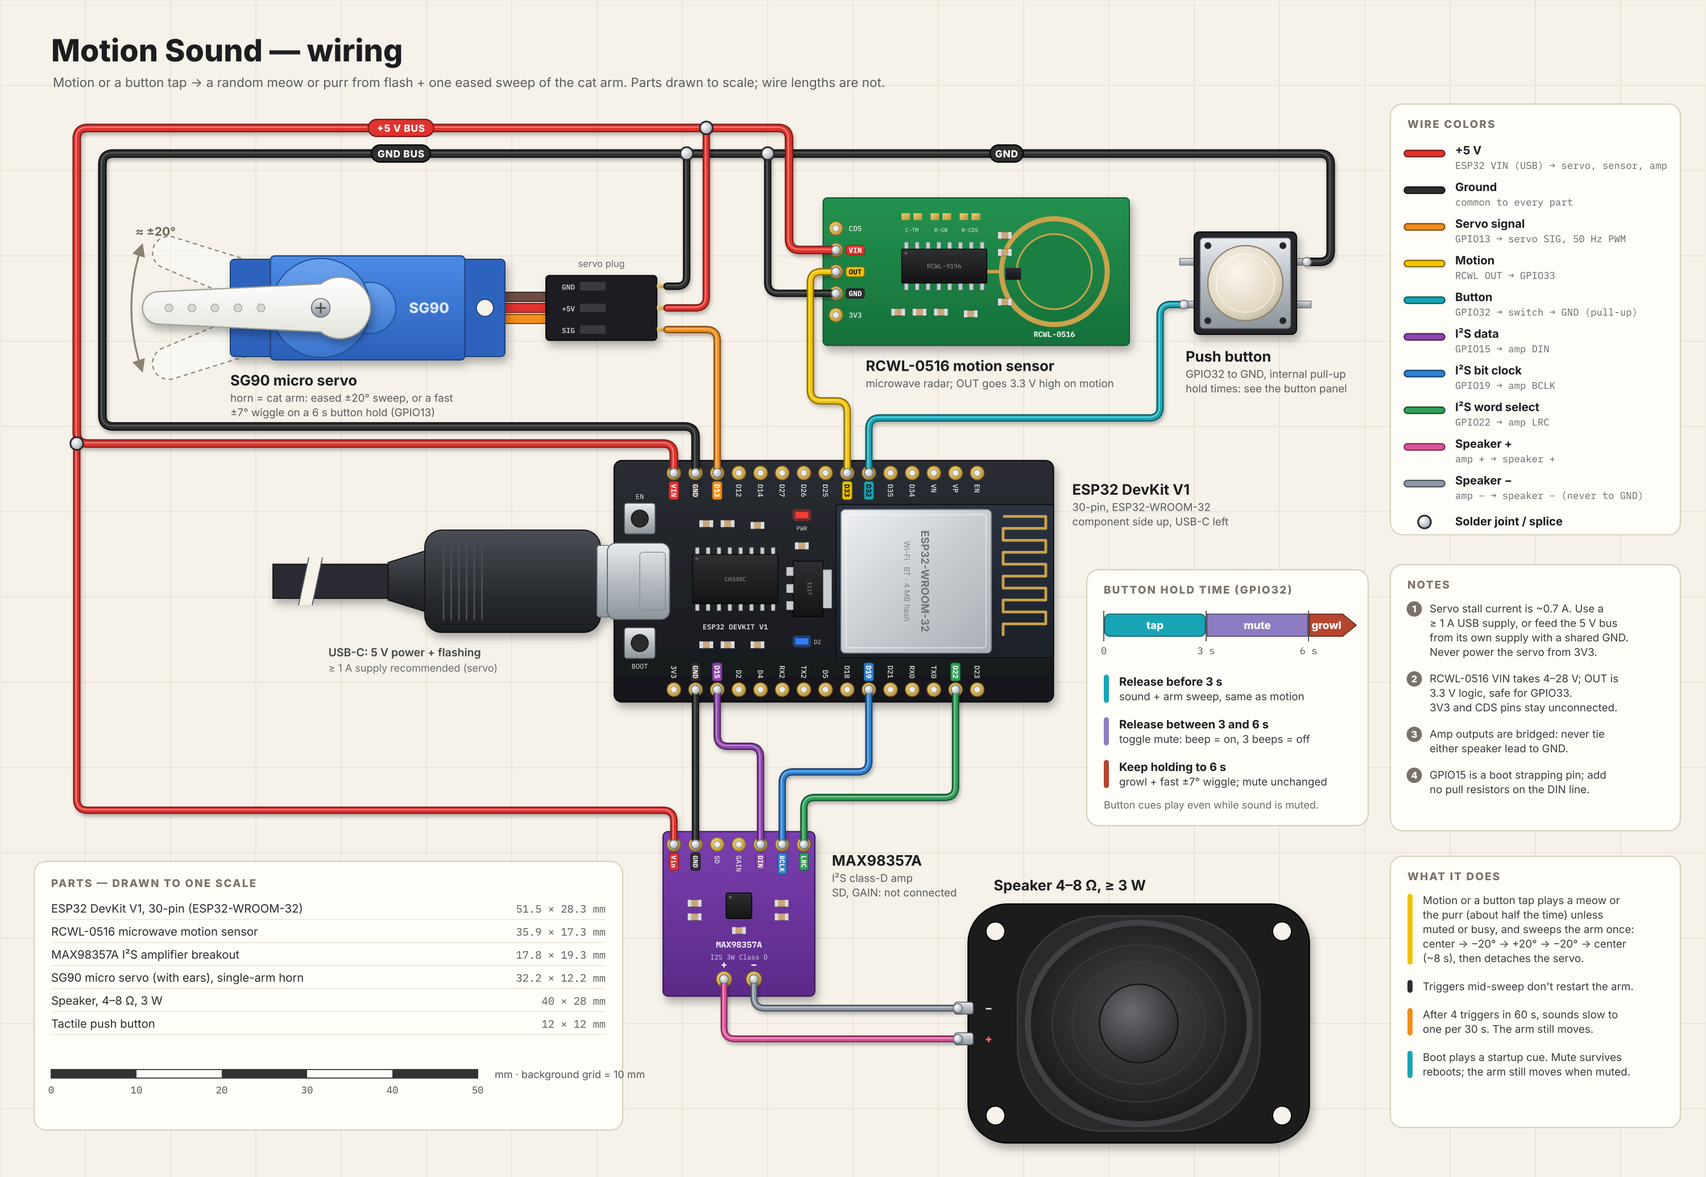
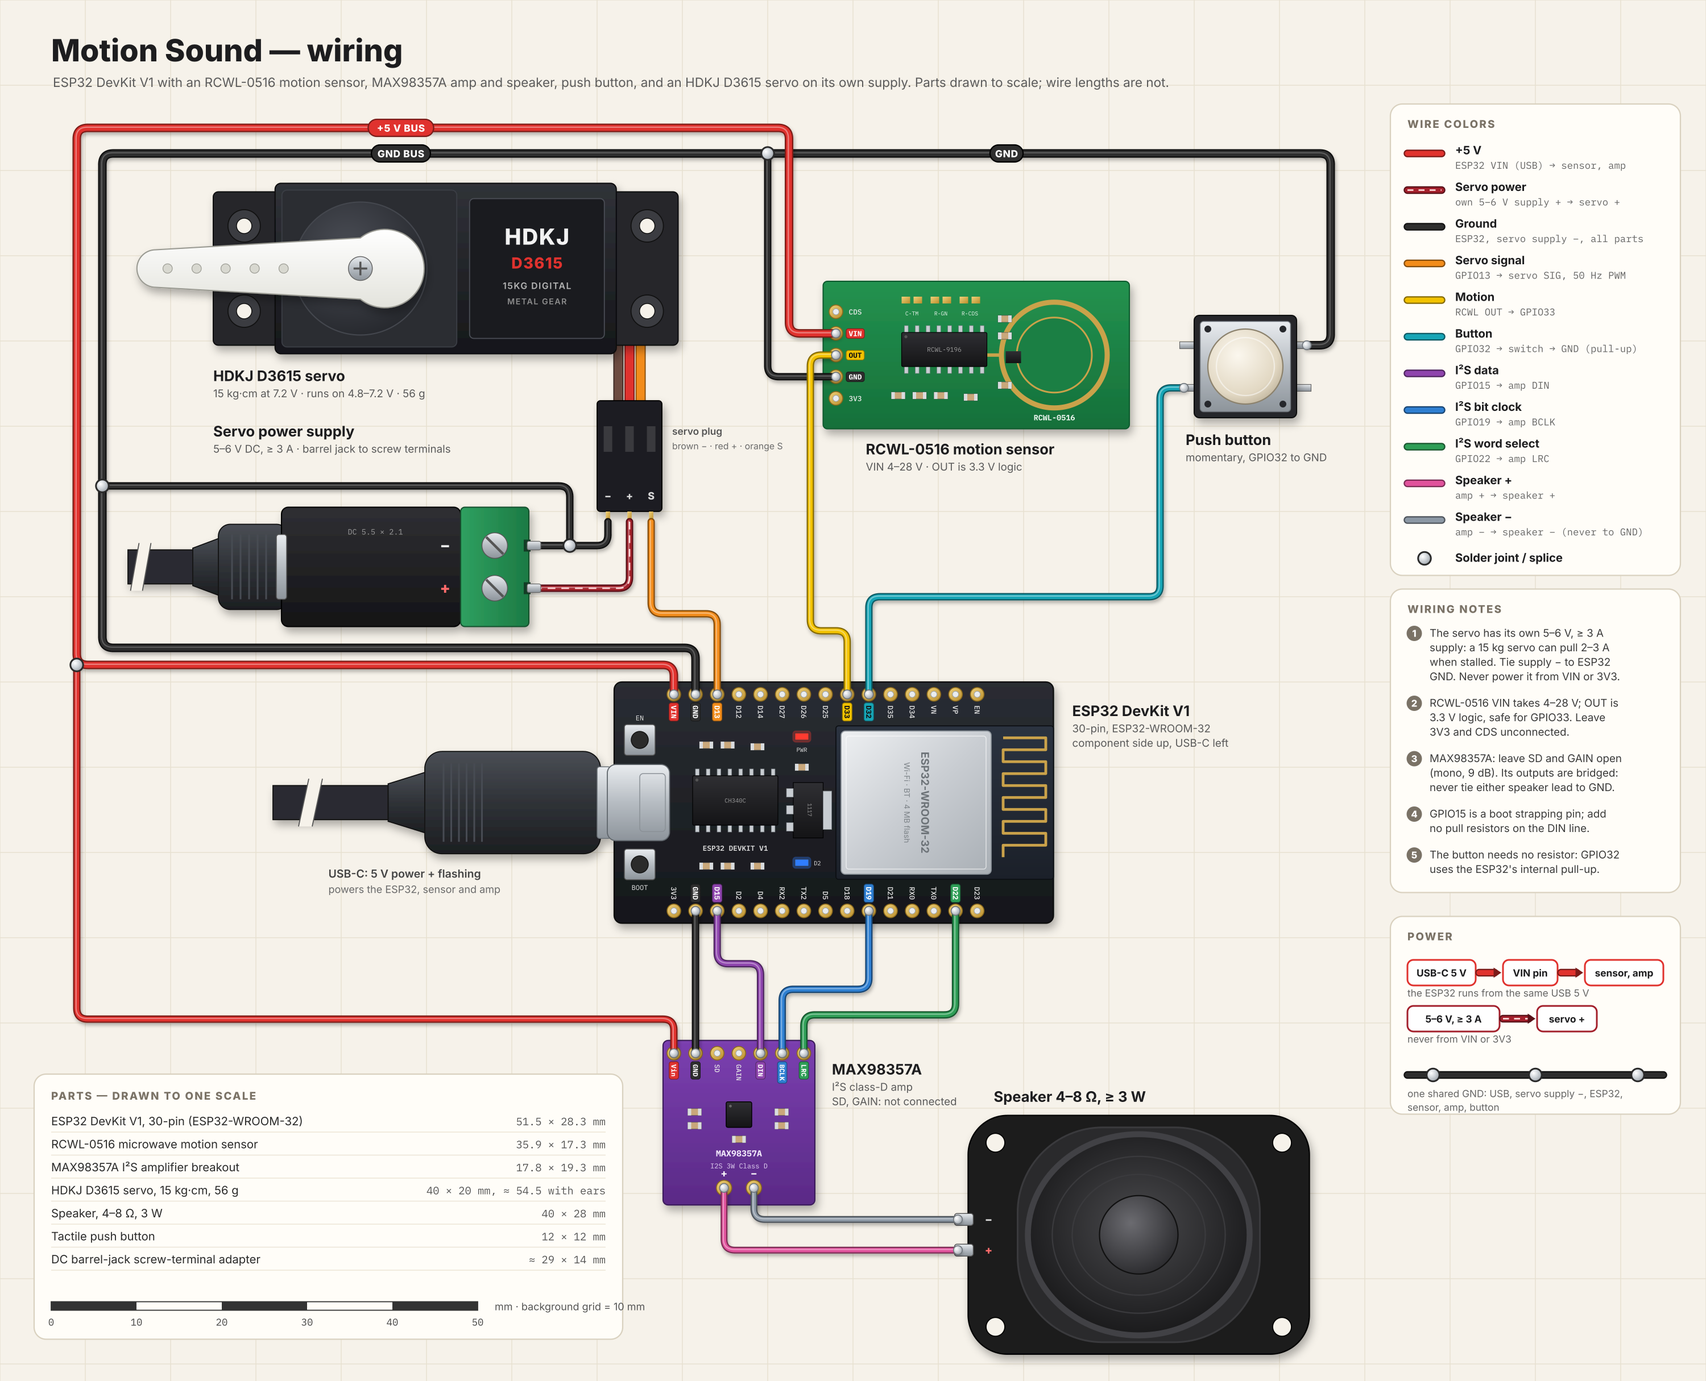
docs: redraw wiring for the HDKJ D3615 servo, refresh the README
- Diagram: draw the D3615 at true size on its own 5-6 V, >= 3 A supply
  with a shared ground; 5 V from VIN now feeds only the sensor and amp.
  Drop the behaviour panels in favour of wiring notes and a power summary.
- README: document the D3615 and its supply, move behaviour into its own
  section with corrected rate limit, clip interruption, and sweep/wiggle
  timings, add first-time Wi-Fi setup and a security note, and fix the
  sound-conversion and OTA tooling notes.

Changed region(s): [[0.031, 0.0309, 0.992, 0.9894], [0.217, 0.8966, 0.279, 0.9585]]

diff --git a/README.md b/README.md
@@ -1,43 +1,80 @@
 # Motion Sound
 
-An example project for building a standalone ESPHome sound-effects (SFX) device, used to make an interactive object that plays a sound and moves something when motion is detected. An ESP32-WROOM DevKit V1 reads a binary presence/motion sensor and randomly plays a short meow stored in firmware flash as MP3 through a MAX98357 I²S amplifier. A servo on the cat arm does one eased sweep and then holds center when motion is detected. Detection, random selection, and playback run locally on the device; Wi-Fi and Home Assistant are not required.
+An example project for building a standalone ESPHome sound-effects (SFX) device, used to make an interactive object that plays a sound and moves something when motion is detected. An ESP32-WROOM DevKit V1 reads a binary presence/motion sensor, plays a random short meow stored in firmware flash as MP3 through a MAX98357 I²S amplifier, and sweeps a servo-driven cat arm once before holding it at center. Detection, random selection, and playback run locally on the device. Wi-Fi and Home Assistant add remote controls and OTA updates, but are not required.
 
 ![Three prototype builds on perfboard: ESP32 DevKit V1 boards with MAX98357A amplifiers, an RCWL-0516 sensor, and a speaker](media/boards.jpg)
 
 ## Hardware and wiring
 
-![Wiring diagram: ESP32 DevKit V1 connected to an RCWL-0516 motion sensor, MAX98357A I²S amplifier and speaker, SG90 servo, and push button](media/wiring-diagram.png)
+![Wiring diagram: ESP32 DevKit V1 connected to an RCWL-0516 motion sensor, MAX98357A I²S amplifier and speaker, push button, and an HDKJ D3615 servo on its own 5–6 V supply](media/wiring-diagram.png)
 
-The diagram draws every part at the same scale (wire lengths are not to scale). It takes 5 V for the servo, sensor, and amplifier from the ESP32 VIN pin, which carries USB 5 V.
+The diagram draws every part at the same scale (wire lengths are not to scale). The ESP32 runs from USB 5 V, and the motion sensor and amplifier take 5 V from its VIN pin. The servo has its own supply, and that supply's negative terminal is tied to ESP32 GND.
 
 | Signal | ESP32 GPIO | Connect to |
 | --- | ---: | --- |
-| Motion sensor output | GPIO33 | Binary sensor output |
+| Motion sensor output | GPIO33 | RCWL-0516 OUT |
 | Button | GPIO32 | Momentary switch to GND (internal pull-up) |
-| Servo signal | GPIO13 | Servo PWM, 50 Hz |
+| Servo signal | GPIO13 | Servo signal wire (orange on most servos), 50 Hz PWM |
 | I²S data out (DIN) | GPIO15 | MAX98357 DIN |
 | I²S word select (LRCLK/WS) | GPIO22 | MAX98357 LRCLK |
 | I²S bit clock (BCLK) | GPIO19 | MAX98357 BCLK |
-| Amplifier power and ground | — | 2.5–5.5 V at VIN; share GND with ESP32 |
+| Sensor and amplifier power | VIN (5 V), GND | RCWL-0516 VIN/GND and MAX98357 VIN/GND |
+| Servo power | GND | Separate 5–6 V DC supply rated for at least 3 A to servo + and −; also connect supply − to ESP32 GND |
 | Speaker output | — | Connect a 4 Ω+ speaker across the amplifier outputs; do not ground either output |
 
-On each motion rising edge, and on a short button press, the servo eases from center to the front, sweeps once to the back, eases back to center, and keeps holding center. The servo stays attached between activations: a detached arm drifts, and the next sweep would snap it back to center at full speed. At boot the arm is centered immediately. The arm has a mutex: while a sweep or growl wiggle is running, new triggers do not start another movement, but every trigger still plays a new meow (unless muted or rate limited). Releasing the button after 3 seconds and before 6 seconds toggles sound mute: `beep.wav` plays when mute turns on, and `3beeps.wav` plays when it turns off. Holding past 6 seconds plays `growl.wav` and wiggles the arm for about 2 seconds over a shorter arc at about 3× the sweep step rate, and does not change mute. Boot plays the clip named by `boot_sound`: `win-startup.wav` as configured, or `beep.wav` when it is set to `beep`; after that cue finishes, the normal meow and arm sequence runs once. Mute is kept across reboot, so the startup arm movement still runs when muted but its meow is suppressed; cue sounds play even while meows are muted. Power the servo from a supply that can handle its stall current, and share ground with the ESP32. Do not power the servo from the ESP32 3.3 V pin.
+The arm uses an HDKJ D3615: a standard-size (40 × 20 × 40.5 mm, 56 g) digital metal-gear servo rated for 4.8–7.2 V, with 14 kg·cm of torque at 6 V and 15 kg·cm at 7.2 V. Its stall current is not published, but servos in this class draw 2–3 A when stalled, which is more than USB and the ESP32 VIN pin can supply. Power it from its own 5–6 V supply rated for at least 3 A, and connect the supply's negative terminal to ESP32 GND so the GPIO13 signal has a common reference. Do not power the servo from VIN or the 3.3 V pin. The firmware keeps the servo attached at center between movements, so it holds position whenever the device is on.
 
-Home Assistant gets these buttons: **Animate Arm** (arm sweep only), **Meow** (random meow only), and **Meow and Arm** (both). A **Hola** button plays only the hola clip, for debugging. These manual actions ignore mute and the meow rate limit; the arm sweep is still skipped if the arm is already moving.
+Confirm the presence sensor's output polarity and electrical level before connecting it; ESP32 GPIOs are not 5 V tolerant. The RCWL-0516 takes 4–28 V at VIN and drives OUT at 3.3 V, so it can connect to GPIO33 directly; leave its 3V3 and CDS pins unconnected. GPIO15 is a boot-strapping pin; the MAX98357 DIN input should be high impedance, but avoid adding pulls to GPIO15 and move I²S DOUT to another suitable GPIO if the board has boot issues.
 
-Two diagnostic sensors help track stability: **Uptime** (seconds since boot, updated every minute) and **Last Reset Reason** (for example power-on, `software via esp_restart` after an OTA update, task or interrupt watchdog, brownout, or a crash/panic). Home Assistant lists them in the device's Diagnostic section.
+For amplifier pinout details, see [Adafruit's MAX98357 pinout guide](https://learn.adafruit.com/adafruit-max98357-i2s-class-d-mono-amp/pinouts). The MAX98357 takes digital I²S (not analog audio), and MCLK is not required. Leave SD and GAIN unconnected for mono (L+R)/2 output at 9 dB gain. Its speaker outputs are bridge-tied/floating: use a 4 Ω or higher moving-coil speaker across the output pair, and do not connect either speaker terminal to ground. The amp supply range is 2.5–5.5 V; Adafruit recommends 5 V for higher output power with a supply sized for the speaker load. ESP32 3.3 V logic is compatible with the I²S inputs. Follow the markings/specifications for the specific amplifier breakout in use.
 
-The player volume starts at 75% on a freshly flashed device. After you change it (for example from the Motion Sound Player in Home Assistant), the new volume is saved and kept across reboots and OTA updates.
+## Behavior
 
-If the saved Wi-Fi network can't be reached for 1 minute, the device starts a fallback hotspot named after the device (for example `gato-dorado-98d3d0`), protected by `fallback_ap_password` in `secrets.yaml`. That file is gitignored: copy [`secrets.example.yaml`](secrets.example.yaml) to `secrets.yaml` and set your own password (at least 8 characters) before building; the Makefile stops with a message if it is missing. Join it from a phone or laptop: the captive portal opens (or browse to `http://192.168.4.1`) to scan for and save a Wi-Fi network. OTA and the Home Assistant API also work over the hotspot. The device keeps retrying the saved network while the hotspot is up.
+### Motion and short button presses
 
-The **Mute** switch shows and sets the same sound mute as the 3–6 second button hold, with the same beep cues; it follows button changes too.
+Each motion rising edge, and each button press released within 3 seconds, runs the same sequence:
 
-The **Arm Speed** slider (0–10, default 7, kept across reboot) scales the sweep and wiggle speed: 5 is the base speed (2 s per sweep segment, set by `sweep_segment_ms`), 7 is about 0.87 s, 0 is slowest (about 3.5 s), and 10 is fastest (0.25 s). Each step changes speed by a constant ratio within each half of the range.
+- **Sound:** a clip picked at random from the `MEOWS` list in `play_random_meow` (25 meows plus `hola`) plays unless sound is muted or rate limited. A new clip interrupts the one already playing.
+- **Arm:** the servo eases from center to the front, sweeps to the back, eases back to center, and keeps holding center. Each of the three segments takes `sweep_segment_ms` (2 s) scaled by Arm Speed: about 0.87 s at the default speed 7, or about 2.6 s for the whole sweep. The servo stays attached between movements because a detached arm drifts, and the next sweep would snap it back to center at full speed.
+- **Arm lock:** while a sweep or growl wiggle is running, new triggers do not start another movement, but they still play a clip.
 
-Confirm the presence sensor's output polarity and electrical level before connecting it; ESP32 GPIOs are not 5 V tolerant. GPIO15 is a boot-strapping pin; the MAX98357 DIN input should be high impedance, but avoid adding pulls to GPIO15 and move I²S DOUT to another suitable GPIO if the board has boot issues.
+Triggers are counted in 60-second windows (`sound_burst_window_ms`). After 40 triggers (`sound_burst_limit`) in one window, clips play at most once every 30 seconds (`sound_min_interval_ms`) until the window ends. The arm still moves, and button cues are not limited.
 
-For amplifier pinout details, see [Adafruit's MAX98357 pinout guide](https://learn.adafruit.com/adafruit-max98357-i2s-class-d-mono-amp/pinouts). The MAX98357 takes digital I²S (not analog audio), and MCLK is not required. Its speaker outputs are bridge-tied/floating: use a 4 Ω or higher moving-coil speaker across the output pair, and do not connect either speaker terminal to ground. The amp supply range is 2.5–5.5 V; Adafruit recommends 5 V for higher output power with a supply sized for the speaker load. ESP32 3.3 V logic is compatible with the I²S inputs. Follow the markings/specifications for the specific amplifier breakout in use.
+### Button holds
+
+| Button | Action |
+| --- | --- |
+| Released within 3 s | Same as motion: a clip and one arm sweep |
+| Released after 3–6 s | Toggles sound mute. Muting stops the current clip and plays `beep.wav`; unmuting plays `3beeps.wav`. |
+| Held for 6 s | Stops the current clip, plays `growl.wav`, and wiggles the arm over a shorter arc without changing mute. The wiggle is 16 segments of `wiggle_segment_ms` (375 ms) scaled by Arm Speed: about 2.6 s at speed 7. If the arm is mid-sweep, the growl and wiggle wait for the sweep to finish. |
+
+Cue sounds (beeps, growl, and the boot clip) play even while sound is muted. Mute is saved and kept across reboots.
+
+### Boot
+
+At boot the arm is centered immediately. The device plays the clip named by `boot_sound` (`win-startup.wav` as configured, or `beep.wav` when it is set to `beep`), then runs the motion sequence once. If sound was muted before the reboot, the arm still moves but the clip is skipped.
+
+### Home Assistant
+
+When the device is connected to Home Assistant through the ESPHome API, it provides:
+
+- **Animate Arm**, **Meow**, and **Meow and Arm** buttons. They ignore mute and the rate limit; the arm sweep is still skipped if the arm is already moving. A **Hola** button plays only the hola clip, for debugging.
+- A **Mute** switch that shows and sets the same mute as the 3–6 second button hold, with the same cues.
+- An **Arm Speed** slider (0–10, default 7, kept across reboot) that scales the sweep and wiggle speed. 5 is the base speed (2 s per sweep segment, set by `sweep_segment_ms`), 7 is about 0.87 s, 0 is slowest (about 3.5 s), and 10 is fastest (0.25 s). Each step changes speed by a constant ratio within each half of the range.
+- The **Motion Sound Player** media player. Its volume starts at 75% on a freshly flashed device; a volume you set is saved and kept across reboots and OTA updates.
+- **Motion** and **Button** binary sensors.
+- Two diagnostic sensors in the device's Diagnostic section: **Uptime** (seconds since boot, updated every minute) and **Last Reset Reason** (for example power-on, `software via esp_restart` after an OTA update, task or interrupt watchdog, brownout, or a crash/panic).
+
+## Wi-Fi and first-time setup
+
+Each device names itself `gato-dorado-` plus the last six hex digits of its MAC address (for example `gato-dorado-98d3d0`), and appears as GatoDorado in Home Assistant. The firmware contains no Wi-Fi credentials:
+
+- **First boot:** with no saved network, the device immediately starts a hotspot with its own name, protected by `fallback_ap_password`. Join it from a phone or laptop; the captive portal opens (or browse to `http://192.168.4.1`) to scan for and save a Wi-Fi network. While no network is saved, the device also accepts Wi-Fi setup over Bluetooth with [Improv](https://www.improv-wifi.com/).
+- **Later:** if the saved network can't be reached for 1 minute, the hotspot starts again, and the device keeps retrying the saved network. OTA and the Home Assistant API also work over the hotspot.
+
+`fallback_ap_password` is set in `secrets.yaml`, which is gitignored. Copy [`secrets.example.yaml`](secrets.example.yaml) to `secrets.yaml` and set your own password (at least 8 characters) before building; the Makefile stops with a message if the file is missing.
+
+The ESPHome API has no encryption key, OTA updates have no password, and Bluetooth Wi-Fi setup needs no button press. Anyone on the same network can control or reflash the device, and anyone nearby can give it Wi-Fi credentials while it has none saved. Add an `api` encryption key and an `ota` password (both can come from `secrets.yaml`) before using it on a shared network.
 
 ## Build, flash, and logs
 
@@ -52,9 +89,9 @@ make ota OTA_HOST=10.0.1.23                # bypasses mDNS
 make logs PORT=/dev/cu.YOUR_ESP32_SERIAL_PORT
 ```
 
-The motion input is GPIO33. The I²S connections are listed above. If the first upload cannot enter bootloader mode automatically, hold the board's BOOT button while starting the flash, then release it when writing begins.
+If the first upload cannot enter bootloader mode automatically, hold the board's BOOT button while starting the flash, then release it when writing begins.
 
-The OTA target installs its tools on first use, compiles, and uploads the generated OTA binary on port `3232`. The separate `.venv-ota` environment uses the system Python on macOS to avoid local-network permission failures from Homebrew Python. Set `OTA_PASSWORD` if the device has an OTA password.
+The OTA target installs its tools on first use, compiles, and uploads the generated OTA binary on port `3232`. It reads the build directory from `esphome.name` in `motion-sound.yaml`. The OTA tools live in a separate `.venv-ota` environment built on the system Python on macOS, which avoids local-network permission failures seen with Homebrew Python. That Python is 3.9, so `requirements-ota.txt` pins ESPHome 2025.5.2, the newest release that installs on it; only its OTA uploader is used. Set `OTA_PASSWORD` if you add an OTA password.
 
 The sound URL manifest is [`sounds/sources.txt`](sounds/sources.txt). Cue clips live in [`media/sfx/`](media/sfx/). `make config`, `make compile`, `make flash`, `make ota`, and `make logs` prepare sounds before invoking ESPHome. Original downloads are cached under `.cache/sounds/downloads/`; normalized files consumed by ESPHome are under `.cache/sounds/`. Both are gitignored, so generated WAV and MP3 files are not tracked in this repository. The `media/sfx/` sources are tracked.
 
@@ -96,7 +133,7 @@ The manifest maps these ESPHome `audio_file` IDs to source WAVs from [haydenroch
 | `meow_youtube_dc_42` | [youtube_acm9dCI5_dc_42.wav](https://raw.githubusercontent.com/haydenroche5/meow_dataset/master/meow/youtube_acm9dCI5_dc_42.wav) |
 | `meow_youtube_dc_52` | [youtube_acm9dCI5_dc_52.wav](https://raw.githubusercontent.com/haydenroche5/meow_dataset/master/meow/youtube_acm9dCI5_dc_52.wav) |
 
-The meow source clips are already mono, 16-bit, 16 kHz, so downsampling is unnecessary. `scripts/prepare_sounds.py` fetches each URL, strips trailing metadata chunks, normalizes the peak to -1 dBFS, and pads an odd sample count by one silent frame. The padding avoids a decoder edge case observed with one odd-length clip. The same script converts `media/sfx/` to mono 16 kHz: `beep.wav` and `win-startup.wav` are mixed down from stereo, `growl.wav` is decoded from AIFF, and `purring.wav` and `win-startup.wav` are resampled from 22 kHz. Each normalized WAV is then encoded to a 32 kbps mono MP3 with `lameenc` (installed into `.venv` from `requirements.txt`), and the MP3s are embedded in firmware flash. MP3 is about 8× smaller than 16-bit WAV, which keeps the image well below the OTA app partition size; the ESP32 decodes MP3 in firmware. To add a meow, append a line to `sounds/sources.txt`, add a matching `audio_file` entry, and add its URL to the `MEOWS` list in `play_random_meow`.
+The meow source clips are already mono, 16-bit, 16 kHz, so downsampling is unnecessary. `scripts/prepare_sounds.py` fetches each URL, strips trailing metadata chunks, normalizes the peak to -1 dBFS, and pads an odd sample count by one silent frame. The padding avoids a decoder edge case observed with one odd-length clip. The same script converts the `media/sfx/` clips to mono 16 kHz: it mixes the stereo clips (`beep.wav`, `purring.wav`, and `win-startup.wav`) down to mono, resamples every clip except `hola.wav` from 22.05 kHz, and decodes `growl.wav`, which is an AIFF file despite its extension. Each normalized WAV is then encoded to a 32 kbps mono MP3 with `lameenc` (installed into `.venv` from `requirements.txt`), and the MP3s are embedded in firmware flash. MP3 is about 8× smaller than 16-bit WAV, which keeps the image well below the OTA app partition size; the ESP32 decodes MP3 in firmware. To add a meow, append a line to `sounds/sources.txt`, add a matching `audio_file` entry, and add its URL to the `MEOWS` list in `play_random_meow`.
 
 | ESPHome ID | Source | When it plays |
 | --- | --- | --- |
@@ -105,10 +142,8 @@ The meow source clips are already mono, 16-bit, 16 kHz, so downsampling is unnec
 | `win_startup` | `media/sfx/win-startup.wav` | Boot, when `boot_sound` is `win_startup` (the configured default) |
 | `growl` | `media/sfx/growl.wav` | Button held for 6 seconds, with the arm wiggle |
 | `hola` | `media/sfx/hola.wav` | Spanish "hola", picked at random like a meow (it is in the `MEOWS` list) |
-| `purring` | `media/sfx/purring.wav` | Random motion or short-press clip, weighted by `purr_ratio` |
+| `purring` | `media/sfx/purring.wav` | Random motion or short-press clip, weighted by `purr_ratio`; never with the configured `0` |
 
-Each motion rising edge, and each short press of the GPIO32 button, picks a clip if the player is idle and sound is not muted. The log line prints the clip ID. Meows are picked uniformly from the `MEOWS` list in `play_random_meow`. `purr_ratio` at the top of `motion-sound.yaml` is how many times more often the purr is chosen than any one meow; the configured `0` plays only meows. Every additional embedded clip increases firmware/flash usage. Releasing the button between 3 and 6 seconds toggles mute and stops any clip that is playing. A hold of 6 seconds plays the growl and wiggles the arm without changing mute.
-
-Meow playback is rate limited by the substitutions at the top of `motion-sound.yaml`. The defaults allow 4 triggers in 60 seconds, then at most one meow every 30 seconds. Triggers past that limit still move the arm. A quiet gap of one full window restores a meow on every trigger. Button cues are not limited.
+Clips are picked uniformly from the `MEOWS` list, and the log line prints the clip ID. `purr_ratio` at the top of `motion-sound.yaml` is how many times more often the purr is chosen than any one meow; the configured `0` plays only the `MEOWS` list. Every additional embedded clip increases firmware size: with the current 31 clips, the firmware uses about 1.5 MB of the 1.97 MB app partition.
 
 The presence sensor used during bring-up is documented at [RCWL-0516](https://github.com/tarantula3/RCWL-0516).
